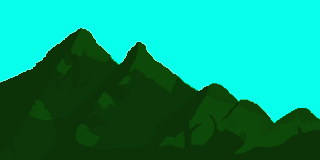
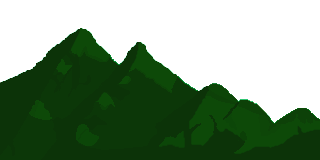
Background added.

diff --git a/core/src/ldjam48/game/screens/MainGameScreen.java b/core/src/ldjam48/game/screens/MainGameScreen.java
@@ -1,6 +1,7 @@
 package ldjam48.game.screens;
 
 import com.badlogic.gdx.Screen;
+import com.badlogic.gdx.graphics.OrthographicCamera;
 import com.badlogic.gdx.graphics.Texture;
 import com.badlogic.gdx.graphics.g2d.BitmapFont;
 import com.badlogic.gdx.graphics.g2d.Sprite;
@@ -18,6 +19,7 @@ public class MainGameScreen implements Screen {
     Game game;
 
     public static Node scene;
+    public static Node background;
     public static Node gui;
     public NodePlayer nodePlayer;
     public NodeBase nodeBase;
@@ -26,6 +28,7 @@ public class MainGameScreen implements Screen {
     private Inventory inventory;
 
     private SpriteBatch guiBatch;
+    private SpriteBatch backgroundBatch = new SpriteBatch();
 
     private static MainGameScreen instance;
     public MainGameScreen(Game game) {
@@ -38,6 +41,8 @@ public class MainGameScreen implements Screen {
         img = new Texture("badlogic.jpg");
         scene = new Node("Game Scene");
         gui = new Node("Gui");
+        background = new Node("Background");
+
         scene.position = new Vector2(0, 0);
         guiBatch = new SpriteBatch();
 
@@ -45,6 +50,14 @@ public class MainGameScreen implements Screen {
         tilemap.position.y += -8000;
 
         scene.addNode(tilemap);
+
+        for(int i = 0; i < (tilemap.width * tilemap.tileSize) / 320; i++) {
+            NodeBackground b = (NodeBackground)background.addNode(new NodeBackground());
+            if(i % 2 > 0) {
+                b.sprite.setFlip(true, false);
+            }
+            b.position.x = i * 320;
+        }
 
         nodeBase = new NodeBase();
         nodeBase.position.y = 190;
@@ -63,6 +76,14 @@ public class MainGameScreen implements Screen {
     @Override
     public void render(float delta) {
         ScreenUtils.clear(0.8f, 0.8f, 1, 1);
+
+        OrthographicCamera tmpCamera = nodePlayer.camera;
+        //tmpCamera.position.x = 1000;
+        backgroundBatch.setProjectionMatrix(tmpCamera.combined);
+        backgroundBatch.begin();
+        background.update(backgroundBatch, delta);
+        backgroundBatch.end();
+
         game.batch.setProjectionMatrix(nodePlayer.camera.combined);
         game.batch.begin();
 

diff --git a/core/src/ldjam48/game/node/NodeBackground.java b/core/src/ldjam48/game/node/NodeBackground.java
@@ -1,0 +1,20 @@
+package ldjam48.game.node;
+
+import com.badlogic.gdx.graphics.Texture;
+import com.badlogic.gdx.graphics.g2d.SpriteBatch;
+import ldjam48.game.TextureManager;
+
+public class NodeBackground extends NodeSprite {
+    public NodeBackground() {
+        super("Hills", TextureManager.hills, 320, 160);
+
+        position.y = 190;
+    }
+
+    @Override
+    public void update(SpriteBatch batch, float delta) {
+        super.update(batch, delta);
+
+
+    }
+}

diff --git a/core/src/ldjam48/game/node/NodePlayer.java b/core/src/ldjam48/game/node/NodePlayer.java
@@ -150,6 +150,15 @@ public class NodePlayer extends NodeSprite{
 
         camera.position.x = position.x - animationRight + animationLeft;
         camera.position.y = position.y + animationDown - animationUp;
+
+        if(camera.position.x <= 320) {
+            camera.position.x = 320;
+        }
+
+        if(camera.position.x >= 1728) {
+            camera.position.x = 1728;
+        }
+
         camera.update();
     }
 

diff --git a/core/src/ldjam48/game/TextureManager.java b/core/src/ldjam48/game/TextureManager.java
@@ -16,6 +16,7 @@ public class TextureManager {
     public static final Texture drill = new Texture("drill.png");
     public static final Texture playerBase = new Texture("player_base.png");
     public static final Texture drill2 = new Texture("drill2.png");
+    public static final Texture hills = new Texture("mountains.png");
 
 
     //Player
